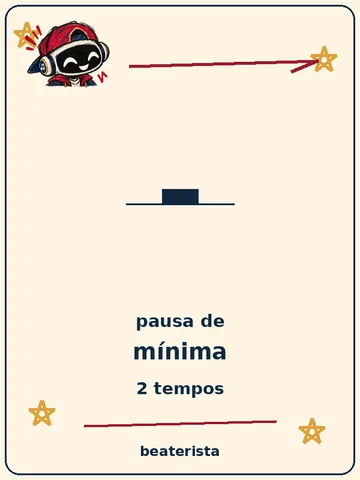
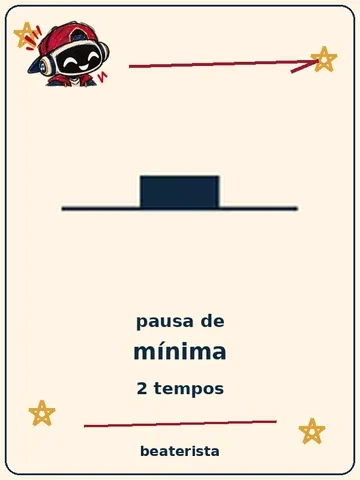
v386

Changed region(s): [[0.1528, 0.3438, 0.825, 0.4688]]

diff --git a/js/views/estudos-som.js b/js/views/estudos-som.js
@@ -74,14 +74,13 @@ function tecladoLista() {
 /* ---------------- ritmos de bateria ---------------- */
 // 16 passos (semicolcheias): 1 e & a 2 e & a 3 e & a 4 e & a
 export const RITMOS = [
-  { id: 'rock', nome: 'Rock básico', sub: 'a levada mais famosa: chimbal, caixa no 2 e no 4', bpm: 100, hh: [0, 2, 4, 6, 8, 10, 12, 14], sn: [4, 12], bd: [0, 8] },
-  { id: 'rock2', nome: 'Rock com bumbo extra', sub: 'o bumbo ganha uma batida a mais', bpm: 100, hh: [0, 2, 4, 6, 8, 10, 12, 14], sn: [4, 12], bd: [0, 8, 10] },
-  { id: 'pop', nome: 'Pop', sub: 'bumbo sincopado e chimbal aberto no final', bpm: 96, hh: [0, 2, 4, 6, 8, 10, 12], ho: [14], sn: [4, 12], bd: [0, 6, 8, 10] },
-  { id: 'funk', nome: 'Funk', sub: 'chimbal em semicolcheias e notas fantasma na caixa', bpm: 90, hh: [0, 1, 2, 3, 4, 5, 6, 7, 8, 9, 10, 11, 12, 13, 14, 15], sn: [4, 12], fan: [7, 9, 15], bd: [0, 3, 10] },
-  { id: 'samba', nome: 'Samba', sub: 'surdo no 2 e no 4 e a caixa riscando', bpm: 100, hh: [0, 2, 4, 6, 8, 10, 12, 14], su: [4, 12], rm: [2, 6, 10, 14], bd: [0, 8] },
-  { id: 'reggae', nome: 'Reggae (one drop)', sub: 'o bumbo e a caixa juntos só no tempo 3', bpm: 80, hh: [0, 2, 4, 6, 8, 10, 12, 14], sn: [8], bd: [8], rm: [] },
-  { id: 'bossa', nome: 'Bossa nova (simplificada)', sub: 'aro da caixa sincopado e bumbo suave', bpm: 88, hh: [0, 4, 8, 12], rm: [0, 3, 6, 10, 12], bd: [0, 6, 8, 14] },
-  { id: 'disco', nome: 'Disco (quatro por quatro)', sub: 'bumbo em todos os tempos e chimbal aberto no "e"', bpm: 118, hh: [0, 4, 8, 12], ho: [2, 6, 10, 14], sn: [4, 12], bd: [0, 4, 8, 12] },
+  { id: 'rock1', nome: 'Rock 1', bpm: 100, hh: [0, 2, 4, 6, 8, 10, 12, 14], sn: [4, 12], bd: [0, 8] },
+  { id: 'rock2', nome: 'Rock 2', bpm: 100, hh: [0, 2, 4, 6, 8, 10, 12, 14], sn: [4, 12], bd: [0, 4, 8] },
+  { id: 'rock3', nome: 'Rock 3', bpm: 100, hh: [0, 2, 4, 6, 8, 10, 12, 14], sn: [4, 12], bd: [0, 8, 10] },
+  { id: 'pop', nome: 'Pop', bpm: 100, hh: [0, 2, 4, 6, 8, 10, 12, 14], sn: [4, 12], bd: [0, 4, 8, 12] },
+  { id: 'reggaeton', nome: 'Reggaeton', bpm: 94, hh: [0, 2, 4, 6, 8, 10, 12, 14], sn: [3, 6, 11, 14], bd: [0, 4, 8, 12] },
+  { id: 'samba', nome: 'Samba simplificado', bpm: 100, hh: [0, 2, 4, 6, 8, 10, 12, 14], su: [4, 12], rm: [2, 6, 10, 14], bd: [0, 8] },
+  { id: 'baiao', nome: 'Baião', bpm: 100, hh: [0, 2, 4, 6, 8, 10, 12, 14], rm: [4, 12], bd: [0, 6, 8, 14] },
 ];
 const LINHAS = [['hh', 'chimbal', '#5b8dd6'], ['ho', 'chimbal aberto', '#7fb0f0'], ['rm', 'aro', '#a77bff'], ['sn', 'caixa', '#e2554f'], ['fan', 'caixa suave', '#f19a96'], ['su', 'surdo', '#e0b043'], ['bd', 'bumbo', '#3fae5a']];
 const CONTA = ['1', 'e', '&', 'a', '2', 'e', '&', 'a', '3', 'e', '&', 'a', '4', 'e', '&', 'a'];
@@ -90,27 +89,60 @@ function tocaPasso(r, i, t) {
   if (has(r.bd)) kick(t, 0.95); if (has(r.sn)) snare(t, 0.95); if (has(r.fan)) snare(t, 0.25); if (has(r.su)) tom(t, 92, 1); if (has(r.rm)) rim(t, 0.55);
   if (has(r.ho)) hihat(t, 0.6, true); else if (has(r.hh)) hihat(t, i % 4 === 0 ? 0.8 : 0.5);
 }
+const PAUTA = { hh: [38, 'x'], ho: [38, 'o'], rm: [59, 'x'], sn: [59, 'n'], su: [69, 'n'], bd: [79, 'n'] };
+/** Partitura de bateria (uma pauta, 4/4, 16 passos): cabeças coloridas, hastes e ligaduras por tempo. */
+function partitura(r) {
+  const X = (i) => 46 + i * 18.4; const COR = Object.fromEntries(LINHAS.map(([k, , c]) => [k, c])); let s = '';
+  for (let i = 0; i < 16; i++) s += `<rect class="pc" data-i="${i}" x="${X(i) - 9}" y="8" width="18" height="118" rx="5"/>`;
+  [44, 54, 64, 74, 84].forEach((y) => { s += `<line x1="30" x2="346" y1="${y}" y2="${y}" stroke="#14111a" stroke-width="1.4"/>`; });
+  s += '<rect x="9" y="54" width="4.5" height="20" fill="#14111a"/><rect x="18" y="54" width="4.5" height="20" fill="#14111a"/><line x1="346" x2="346" y1="44" y2="84" stroke="#14111a" stroke-width="3"/>';
+  for (const k of Object.keys(PAUTA)) for (const i of r[k] || []) {
+    const [y, f] = PAUTA[k]; const x = X(i); const c = COR[k];
+    if (f === 'n') s += `<ellipse cx="${x}" cy="${y}" rx="5.6" ry="4.2" transform="rotate(-20 ${x} ${y})" fill="${c}" stroke="#14111a" stroke-width="1.2"/>`;
+    else { s += `<path d="M${x - 4.5} ${y - 4.5}L${x + 4.5} ${y + 4.5}M${x + 4.5} ${y - 4.5}L${x - 4.5} ${y + 4.5}" stroke="${c}" stroke-width="3" stroke-linecap="round"/>`; if (f === 'o') s += `<circle cx="${x}" cy="${y - 10}" r="3.4" fill="none" stroke="${c}" stroke-width="2"/>`; }
+  }
+  const grupo = (keys, up) => {
+    const by = up ? 12 : 108; const steps = [...new Set(keys.flatMap((k) => r[k] || []))].sort((a, b) => a - b); if (!steps.length) return;
+    const ys = (i) => keys.filter((k) => (r[k] || []).includes(i)).map((k) => PAUTA[k][0]); const sx = (i) => X(i) + (up ? 5.4 : -5.4);
+    for (const i of steps) { const y0 = up ? Math.max(...ys(i)) : Math.min(...ys(i)); s += `<line x1="${sx(i)}" x2="${sx(i)}" y1="${y0}" y2="${by}" stroke="#14111a" stroke-width="1.7"/>`; }
+    for (let b = 0; b < 4; b++) {
+      const n = steps.filter((i) => i >= b * 4 && i < b * 4 + 4); if (!n.length) continue; const sg = up ? 1 : -1;
+      if (n.length > 1) {
+        s += `<line x1="${sx(n[0])}" x2="${sx(n[n.length - 1])}" y1="${by}" y2="${by}" stroke="#14111a" stroke-width="4"/>`;
+        for (let j = 0; j < n.length - 1; j++) if (n[j + 1] - n[j] === 1) s += `<line x1="${sx(n[j])}" x2="${sx(n[j + 1])}" y1="${by + 6 * sg}" y2="${by + 6 * sg}" stroke="#14111a" stroke-width="3"/>`;
+      } else if (n[0] % 4 !== 0) { const fl = n[0] % 2 ? 2 : 1; for (let q = 0; q < fl; q++) s += `<path d="M${sx(n[0])} ${by + q * 6 * sg}q10 ${7 * sg} 6 ${15 * sg}" stroke="#14111a" stroke-width="2.4" fill="none" stroke-linecap="round"/>`; }
+    }
+  };
+  grupo(['hh', 'ho', 'rm', 'sn', 'su'], true); grupo(['bd'], false);
+  for (let b = 0; b < 4; b++) s += `<text x="${X(b * 4)}" y="124" text-anchor="middle" font-size="12" font-weight="800" fill="#BD1733">${b + 1}</text>`;
+  return svg(352, 130, s, 'rt-part');
+}
+
 export function ritmosView(host) {
-  let atual = RITMOS[0]; let bpm = atual.bpm; let tocando = false; let timer = 0; let step = 0; let next = 0; let celulas = [];
-  const grade = h('div', { class: 'rt-grade', role: 'table', 'aria-label': 'ritmo em 16 passos' }); const titulo = h('h2', { class: 'rt-t' }); const sub = h('p', { class: 'muted' });
+  let idx = 0; let atual = RITMOS[0]; let bpm = atual.bpm; let tocando = false; let timer = 0; let step = 0; let next = 0; let celulas = [];
+  const grade = h('div', { class: 'rt-grade', role: 'table', 'aria-label': 'ritmo em 16 passos' }); const titulo = h('h2', { class: 'rt-t', 'aria-live': 'polite' });
+  const pauta = h('div', { class: 'rt-pauta' }); const pontos = h('div', { class: 'rt-dots', 'aria-hidden': 'true' });
   const botao = h('button', { type: 'button', class: 'btn primary rt-play' }); const bpmOut = h('output', { class: 'rt-bpm' });
-  const parar = () => { tocando = false; clearInterval(timer); timer = 0; marca(-1); botao.textContent = '▶ ouvir'; };
   const marca = (i) => celulas.forEach((c) => c.classList.toggle('agora', +c.dataset.i === i));
+  const parar = () => { tocando = false; clearInterval(timer); timer = 0; marca(-1); botao.textContent = '▶ ouvir'; };
   const tick = () => { const c = audio(); const sp = 60 / bpm / 4; while (next < c.currentTime + 0.12) { tocaPasso(atual, step, next); const s = step; setTimeout(() => { if (tocando) marca(s); }, Math.max(0, (next - c.currentTime) * 1000)); next += sp; step = (step + 1) % 16; } };
   const toggle = () => { if (tocando) { parar(); return; } const c = audio(); tocando = true; step = 0; next = c.currentTime + 0.08; botao.textContent = '■ parar'; tick(); timer = setInterval(tick, 25); };
   botao.addEventListener('click', toggle);
   const desenha = () => {
-    titulo.textContent = atual.nome; sub.textContent = atual.sub; bpmOut.textContent = `${bpm} BPM`; celulas = [];
+    titulo.textContent = atual.nome; bpmOut.textContent = `${bpm} BPM`; celulas = [];
+    pontos.replaceChildren(...RITMOS.map((_, k) => h('i', { class: k === idx ? 'on' : '' })));
     const linhas = LINHAS.filter(([k]) => (atual[k] || []).length);
     grade.replaceChildren(h('div', { class: 'rt-linha rt-conta' }, h('span', { class: 'rt-n' }, ''), ...CONTA.map((c, i) => h('i', { class: i % 4 === 0 ? 'forte' : '' }, c))),
       ...linhas.map(([k, nome, cor]) => h('div', { class: 'rt-linha', style: `--c:${cor}` }, h('span', { class: 'rt-n' }, nome), ...CONTA.map((_, i) => { const c = h('i', { class: (atual[k] || []).includes(i) ? 'on' : '', 'data-i': String(i) }); celulas.push(c); return c; }))));
+    const pt = partitura(atual); pt.querySelectorAll('rect.pc').forEach((r) => celulas.push(r)); pauta.replaceChildren(pt);
   };
-  const lista = h('div', { class: 'rt-lista', role: 'tablist' }, ...RITMOS.map((r) => h('button', { type: 'button', role: 'tab', class: 'rt-item', 'data-id': r.id, onclick: () => { atual = r; bpm = r.bpm; lista.querySelectorAll('.rt-item').forEach((b) => b.classList.toggle('on', b.dataset.id === r.id)); desenha(); if (tocando) { step = 0; } } }, r.nome)));
-  lista.firstChild.classList.add('on');
-  host.append(banner('Ritmos de bateria', 'veja o desenho e ouça'), h('div', { class: 'pad-x', style: 'display:grid;gap:12px' }, voltar('#/estudos/ritmo', '‹ estudos'), lista,
-    h('section', { class: 'card pad rt-box' }, titulo, sub, grade,
-      h('div', { class: 'rt-ctl' }, botao, h('span', { class: 'mem-step' }, h('button', { type: 'button', 'aria-label': 'mais devagar', onclick: () => { bpm = Math.max(50, bpm - 5); bpmOut.textContent = `${bpm} BPM`; } }, '−'), bpmOut, h('button', { type: 'button', 'aria-label': 'mais rápido', onclick: () => { bpm = Math.min(160, bpm + 5); bpmOut.textContent = `${bpm} BPM`; } }, '+'))),
-      h('p', { class: 'muted' }, 'cada quadradinho é 1/4 de tempo. contagem: 1 e & a 2 e & a 3 e & a 4 e & a. as peças acesas tocam naquele ponto.'))));
+  const vai = (d) => { parar(); idx = (idx + d + RITMOS.length) % RITMOS.length; atual = RITMOS[idx]; bpm = atual.bpm; desenha(); };
+  const seta = (d, t, rot) => h('button', { type: 'button', class: 'rt-seta', 'aria-label': rot, onclick: () => vai(d) }, t);
+  host.append(banner('Ritmos de bateria', 'veja o desenho e ouça'), h('div', { class: 'pad-x', style: 'display:grid;gap:12px' }, voltar('#/estudos/ritmo', '‹ estudos'),
+    h('section', { class: 'card pad rt-box' },
+      h('div', { class: 'rt-nav' }, seta(-1, '‹', 'ritmo anterior'), h('div', { class: 'rt-cur' }, titulo, pontos), seta(1, '›', 'próximo ritmo')),
+      grade, pauta,
+      h('div', { class: 'rt-ctl' }, botao, h('span', { class: 'mem-step' }, h('button', { type: 'button', 'aria-label': 'mais devagar', onclick: () => { bpm = Math.max(50, bpm - 5); bpmOut.textContent = `${bpm} BPM`; } }, '−'), bpmOut, h('button', { type: 'button', 'aria-label': 'mais rápido', onclick: () => { bpm = Math.min(160, bpm + 5); bpmOut.textContent = `${bpm} BPM`; } }, '+'))))));
   botao.textContent = '▶ ouvir'; desenha();
   return () => { parar(); };
 }

diff --git a/css/figurinhas.css b/css/figurinhas.css
@@ -365,3 +365,8 @@
 .tf-ic{display:grid;place-items:center;height:56px;color:var(--c,#17365B)}.tf-big{font-size:44px;line-height:1;font-weight:400}.tf-big.small{font-size:18px}.tf-sym{height:56px;width:auto}
 .tf-q{margin:0;font:800 20px/1.25 var(--body,inherit);text-align:center}.tf-estrelas{font-size:36px;color:#EBA332;margin:0}
 .tf-big.clv{font:700 48px/1 Georgia,serif;font-style:italic}
+
+.rt-nav{display:grid;grid-template-columns:52px 1fr 52px;align-items:center;gap:8px}.rt-cur{text-align:center;display:grid;gap:6px;justify-items:center}
+.rt-seta{width:52px;height:52px;border-radius:50%;border:3px solid #14111a;background:#ffd23f;color:#14111a;font:400 34px/1 var(--display,inherit);box-shadow:0 3px 0 #14111a;cursor:pointer;padding:0 0 4px}.rt-seta:active{transform:translateY(2px);box-shadow:0 1px 0 #14111a}
+.rt-dots{display:flex;gap:6px}.rt-dots i{width:8px;height:8px;border-radius:50%;background:#d9cfbb}.rt-dots i.on{background:#d3122f;transform:scale(1.3)}
+.rt-pauta{background:#fffdf7;border:2px solid #14111a;border-radius:12px;padding:6px}.rt-part{display:block;width:100%;height:auto}.rt-part .pc{fill:transparent}.rt-part .pc.agora{fill:rgba(255,210,63,.5)}

diff --git a/sw.js b/sw.js
@@ -1,5 +1,5 @@
 // Service worker: cacheia só o "casco" do app (código + marca). Nenhum dado do usuário passa por aqui.
-const VERSION = 'beaterista-v385';
+const VERSION = 'beaterista-v386';
 const SHELL = [
   'js/paulta/livre.js', 'js/dicas-aluno.js',
   'js/paulta/mapa.js',
